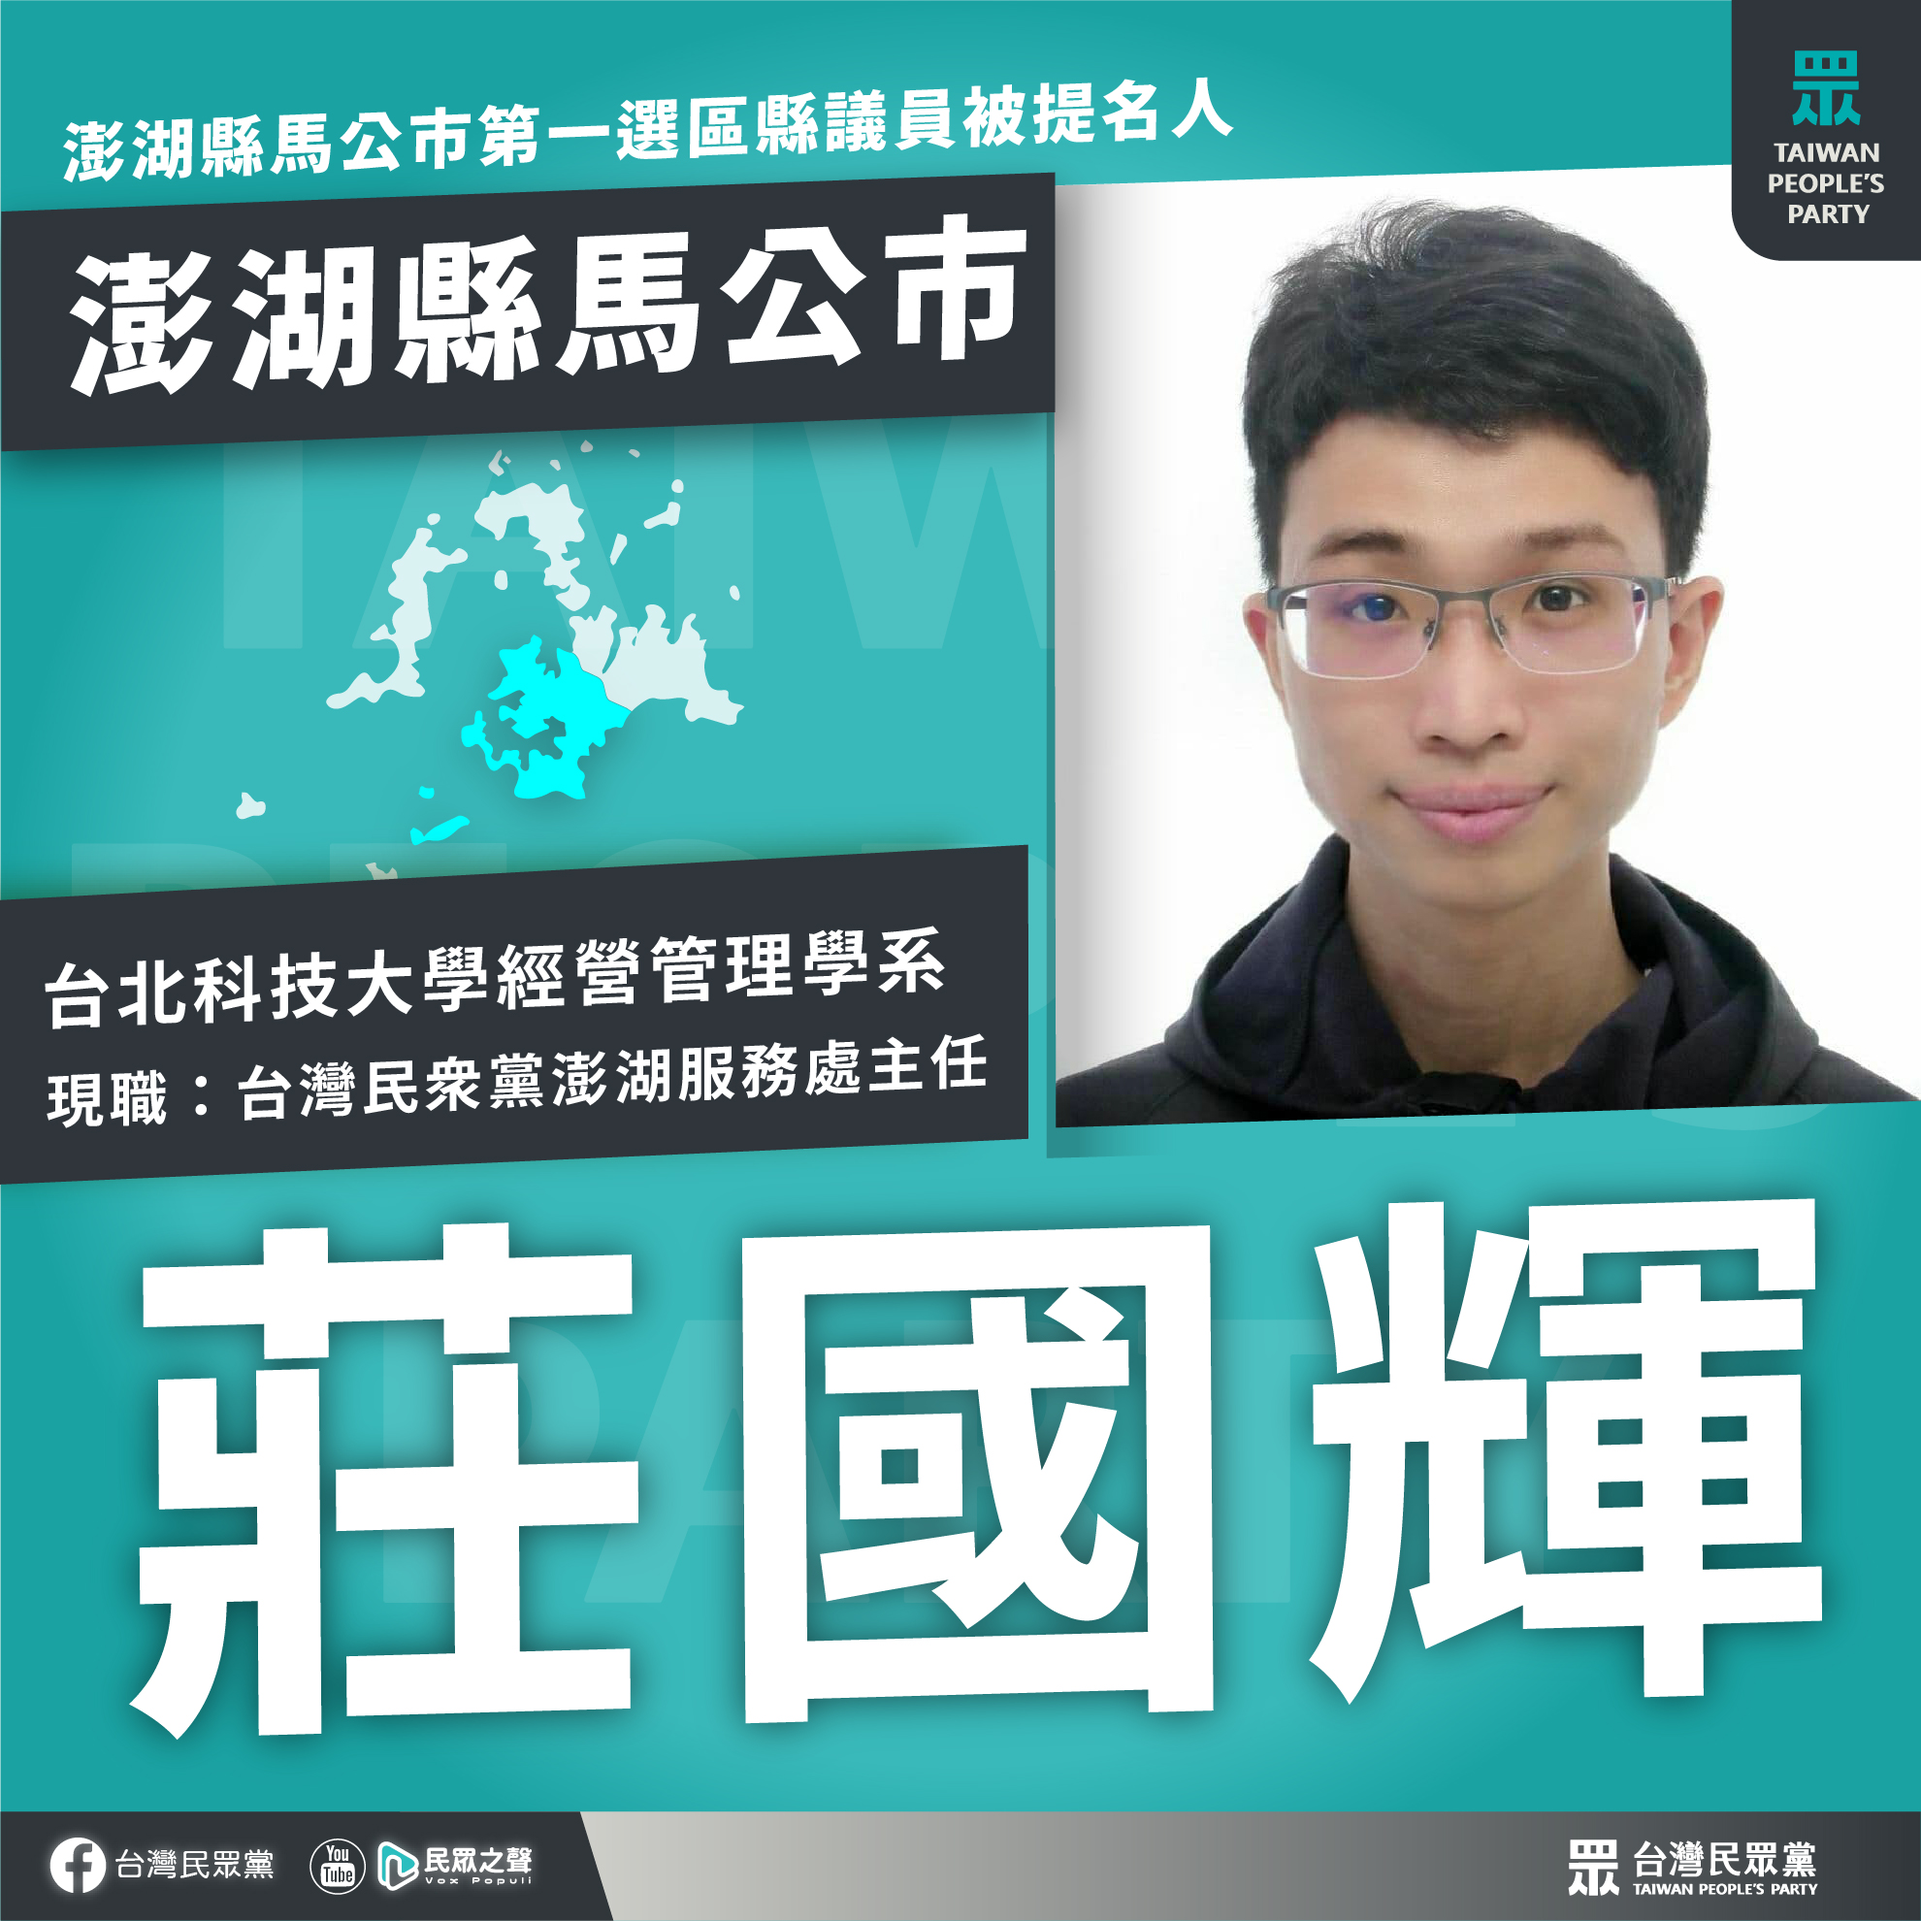
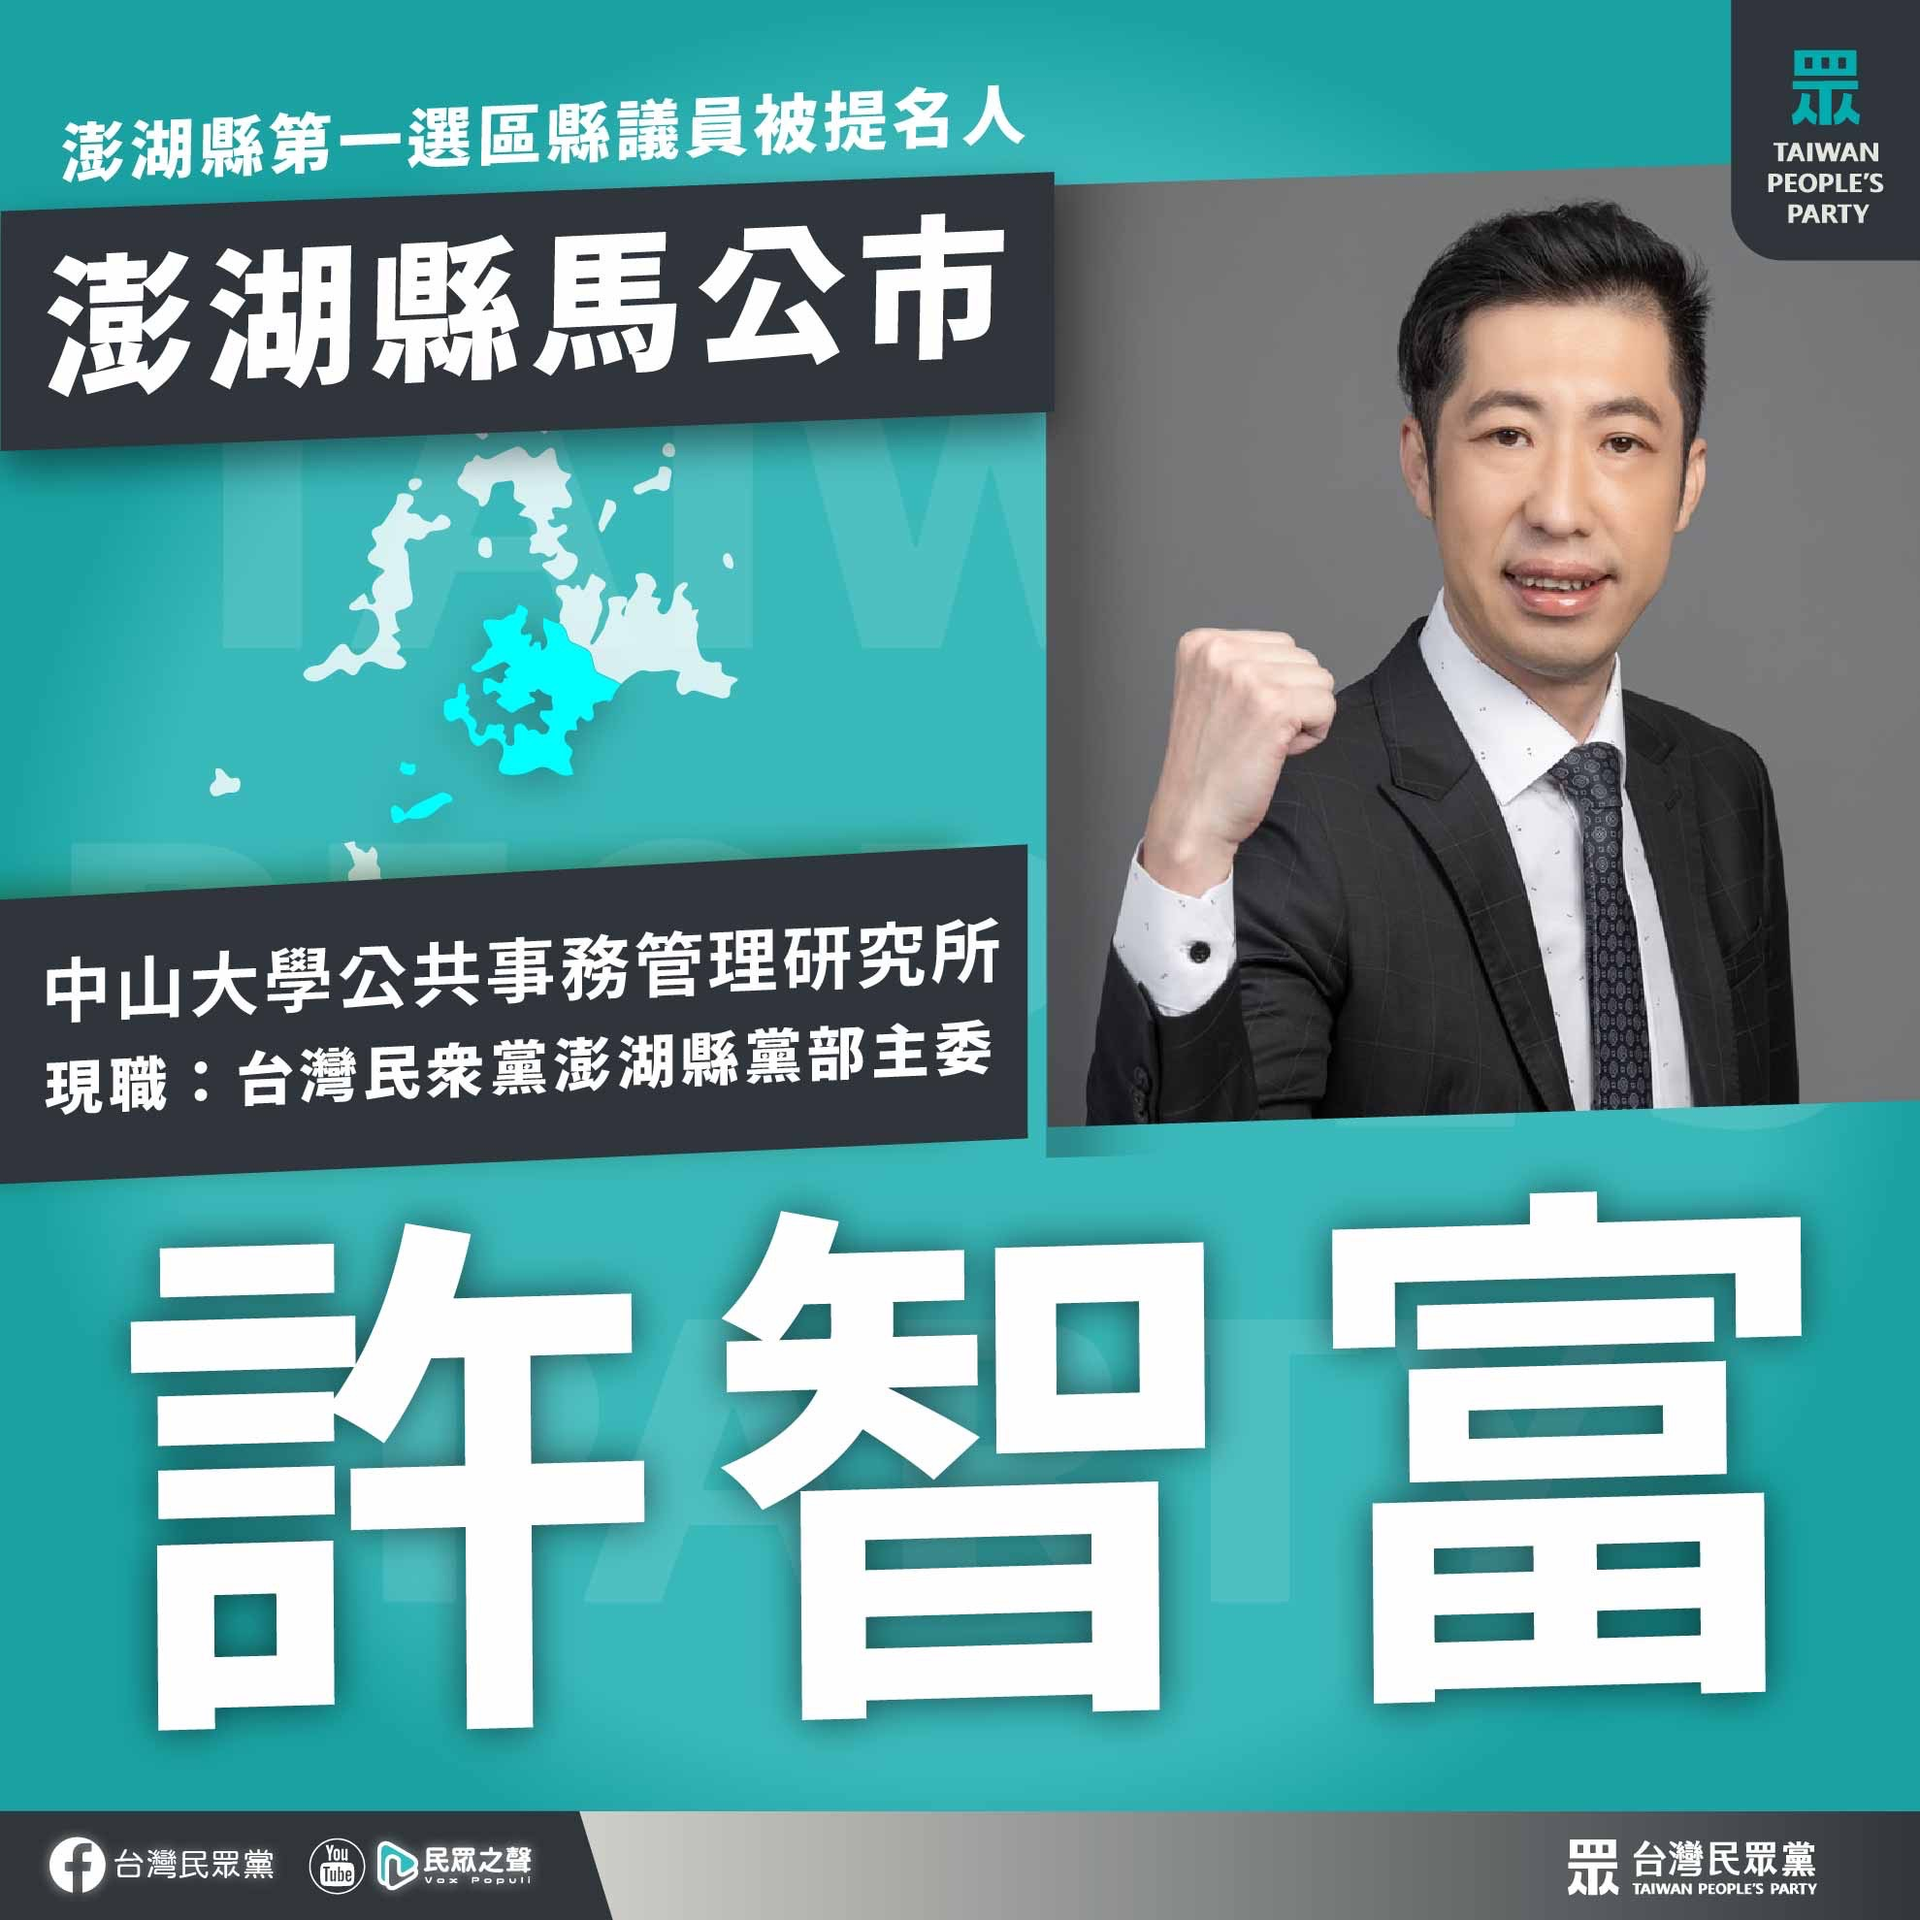
update tpp data

diff --git a/scripts/tpp.php b/scripts/tpp.php
@@ -234,12 +234,11 @@ $zones = [
     ],
     // '10015-04' => '瑞穗鄉,玉里鎮,富里鄉,卓溪鄉',
     '10016-01' => [
-        'name' => '莊國輝',
-        'fb' => 'https://www.facebook.com/tppzzz',
-        'info' => '年齡：31歲
-學歷：台北科技大學經營管理學系畢業
-現職：台灣民眾黨澎湖服務處主任
-經歷：盈德網絡服務有限公司分析師主任及行銷策略主管、億科網絡服務有限公司客服與銷售經理',
+        'name' => '許智富',
+        'fb' => 'https://www.facebook.com/profile.php?id=100063745748938',
+        'info' => '學歷：中山大學公共事務管理研究所
+現職：台灣民眾黨澎湖縣黨部主委
+經歷：澎湖縣副縣長、建設處長、民政處長、西嶼鄉公所秘書',
     ],
     // '10016-02' => '湖西鄉',
     // '10016-03' => '白沙鄉',
